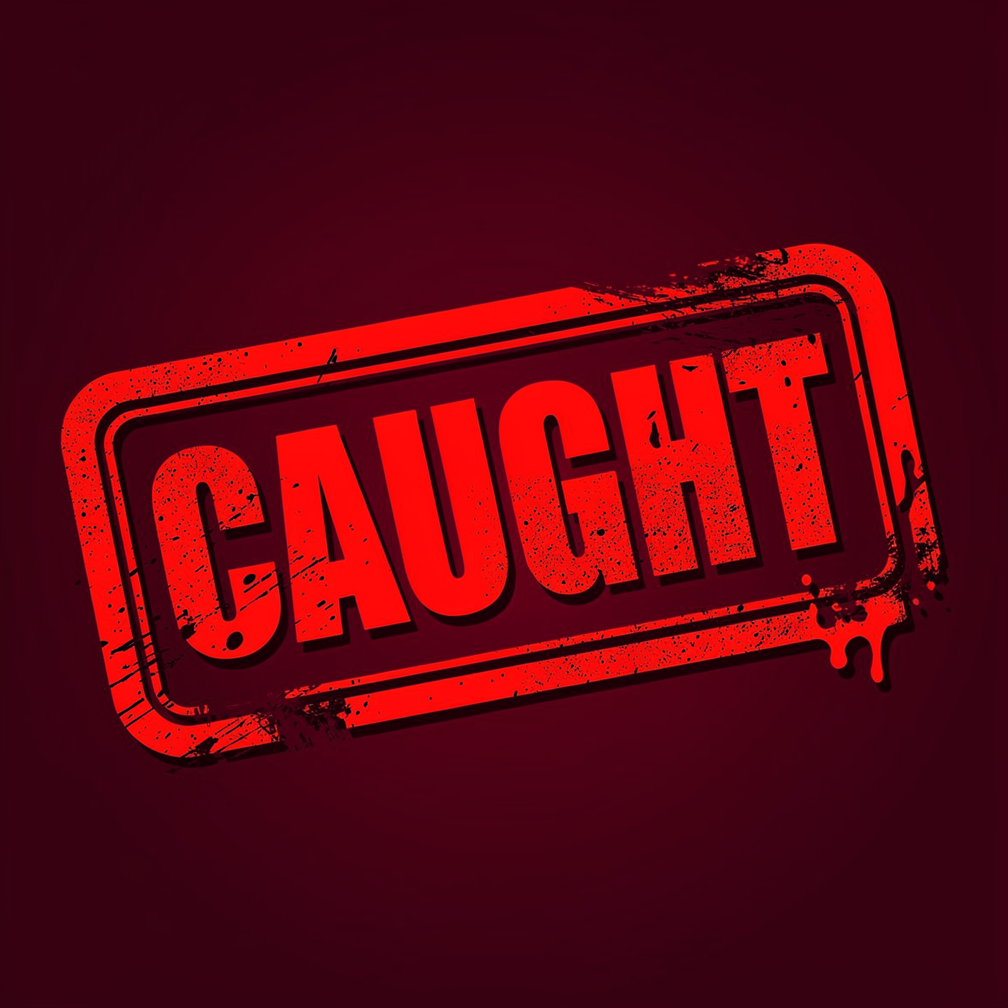
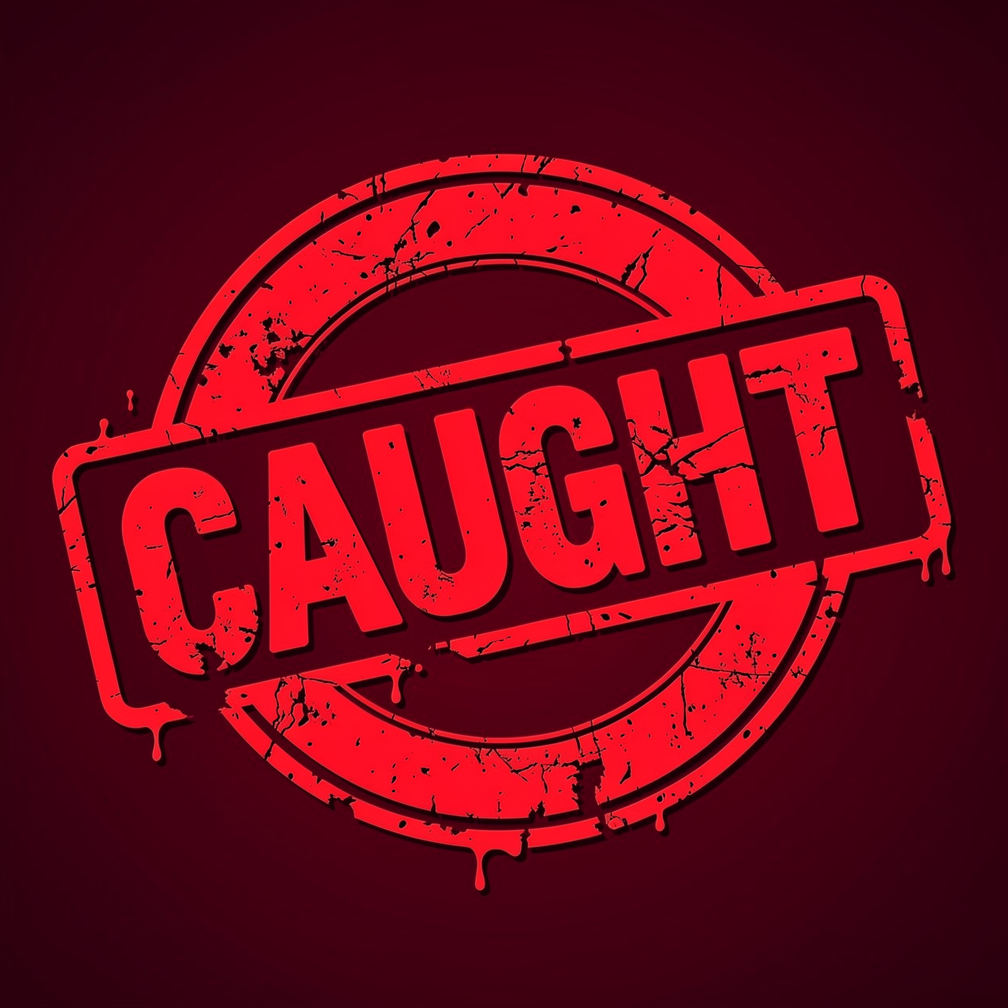
fix: stamp size, discussion edges, import/create buttons, stamp regeneration
- Reduce stamp to 180px with 40vw max, add border-radius 50% circular clip
- Set mix-blend-mode: normal with full opacity for stamp visibility
- Widen discussion header mask gradients, set overflow visible
- Style import/create buttons with subtle dark theme
- Regenerate stamp images via flux-2-pro for better background match

diff --git a/public/styles.css b/public/styles.css
@@ -2466,13 +2466,23 @@ input::placeholder, textarea::placeholder {
 #btn-imp-start:active { transform: translateY(3px); border-bottom-width: 2px; }
 #btn-imp-start:disabled { opacity: 0.35; transform: none; }
 #screen-imp-setup .btn.outline,
-#btn-imp-import,
-#btn-imp-create {
-  background: rgba(255,255,255,0.06) !important;
-  border: 1px solid rgba(255,255,255,0.15) !important;
-  border-bottom: 3px solid rgba(255,255,255,0.2) !important;
-  color: rgba(255,255,255,0.6) !important;
-  font-family: var(--font-heading) !important;
+#screen-imp-setup #btn-imp-import,
+#screen-imp-setup #btn-imp-create {
+  background: rgba(255,255,255,0.07) !important;
+  border: 1px solid rgba(255,255,255,0.12) !important;
+  border-bottom: 3px solid rgba(0,0,0,0.3) !important;
+  color: rgba(255,255,255,0.65) !important;
+  font-family: var(--font-body) !important;
+  font-size: 0.9rem !important;
+  font-weight: 700 !important;
+  padding: 10px 20px !important;
+  border-radius: 12px !important;
+  transition: all 0.1s !important;
+}
+#screen-imp-setup #btn-imp-import:hover,
+#screen-imp-setup #btn-imp-create:hover {
+  background: rgba(255,255,255,0.12) !important;
+  color: white !important;
 }
 
 /* ── CLUE PASS SCREEN ── */
@@ -2580,20 +2590,23 @@ input::placeholder, textarea::placeholder {
   min-height: 100vh;
 }
 .imp-discuss-header-wrap {
-  width: 100%; max-width: 600px; overflow: hidden;
+  width: 100% !important; overflow: visible !important;
   margin-bottom: -20px; position: relative; z-index: 2;
+  border-radius: 0 !important;
 }
 .imp-discuss-header-img {
-  width: min(500px, 90vw) !important; max-width: 500px !important; height: 110px !important;
+  width: min(560px, 95vw) !important; height: 120px !important;
   object-fit: cover !important; object-position: center center !important;
-  display: block !important; margin: 0 auto !important; border-radius: 12px !important;
-  opacity: 0.85 !important;
-  mask-image: linear-gradient(to bottom, transparent 0%, black 20%, black 80%, transparent 100%),
-    linear-gradient(to right, transparent 0%, black 10%, black 90%, transparent 100%) !important;
-  mask-composite: intersect !important;
-  -webkit-mask-image: linear-gradient(to bottom, transparent 0%, black 20%, black 80%, transparent 100%),
-    linear-gradient(to right, transparent 0%, black 10%, black 90%, transparent 100%) !important;
+  display: block !important; margin: 0 auto !important;
+  opacity: 0.9 !important;
+  -webkit-mask-image:
+    linear-gradient(to right, transparent 0%, black 12%, black 88%, transparent 100%),
+    linear-gradient(to bottom, transparent 0%, black 15%, black 85%, transparent 100%) !important;
   -webkit-mask-composite: source-in !important;
+  mask-image:
+    linear-gradient(to right, transparent 0%, black 12%, black 88%, transparent 100%),
+    linear-gradient(to bottom, transparent 0%, black 15%, black 85%, transparent 100%) !important;
+  mask-composite: intersect !important;
 }
 .imp-discuss-header-img:not([src]),
 .imp-discuss-header-img[src=""] { display: none; }
@@ -2736,7 +2749,7 @@ input::placeholder, textarea::placeholder {
 #screen-imp-results {
   flex-direction: column;
   justify-content: flex-start !important; align-items: center !important;
-  gap: 16px !important; padding: 32px 20px 80px !important;
+  gap: 14px !important; padding: 28px 20px 80px !important;
   min-height: 100vh; overflow-y: auto !important;
 }
 /* Prevent lottie from overlapping content */
@@ -2756,16 +2769,19 @@ input::placeholder, textarea::placeholder {
   z-index: 5 !important;
 }
 .imp-result-stamp {
-  width: min(280px, 65vw) !important; height: min(280px, 65vw) !important;
+  width: 180px !important; height: 180px !important;
+  max-width: 40vw !important; max-height: 40vw !important;
   object-fit: contain !important;
-  animation: stampIn 0.5s cubic-bezier(0.68,-0.55,0.265,1.55) both !important;
-  display: block !important; margin: 0 auto 8px !important; flex-shrink: 0 !important;
-  mix-blend-mode: screen !important;
-  filter: contrast(1.1) brightness(1.1) !important;
+  animation: stampIn 0.4s cubic-bezier(0.68,-0.55,0.265,1.55) both !important;
+  display: block !important; margin: 0 auto !important; flex-shrink: 0 !important;
+  mix-blend-mode: normal !important;
+  filter: none !important;
+  opacity: 1 !important;
+  border-radius: 50% !important;
 }
 @keyframes stampIn {
-  0% { transform: scale(3) rotate(-20deg); opacity: 0; filter: blur(4px); }
-  60% { transform: scale(0.9) rotate(4deg); opacity: 1; filter: blur(0); }
+  0% { transform: scale(2.5) rotate(-15deg); opacity: 0; }
+  60% { transform: scale(0.92) rotate(3deg); opacity: 1; }
   100% { transform: scale(1) rotate(0deg); }
 }
 #imp-res-text {
